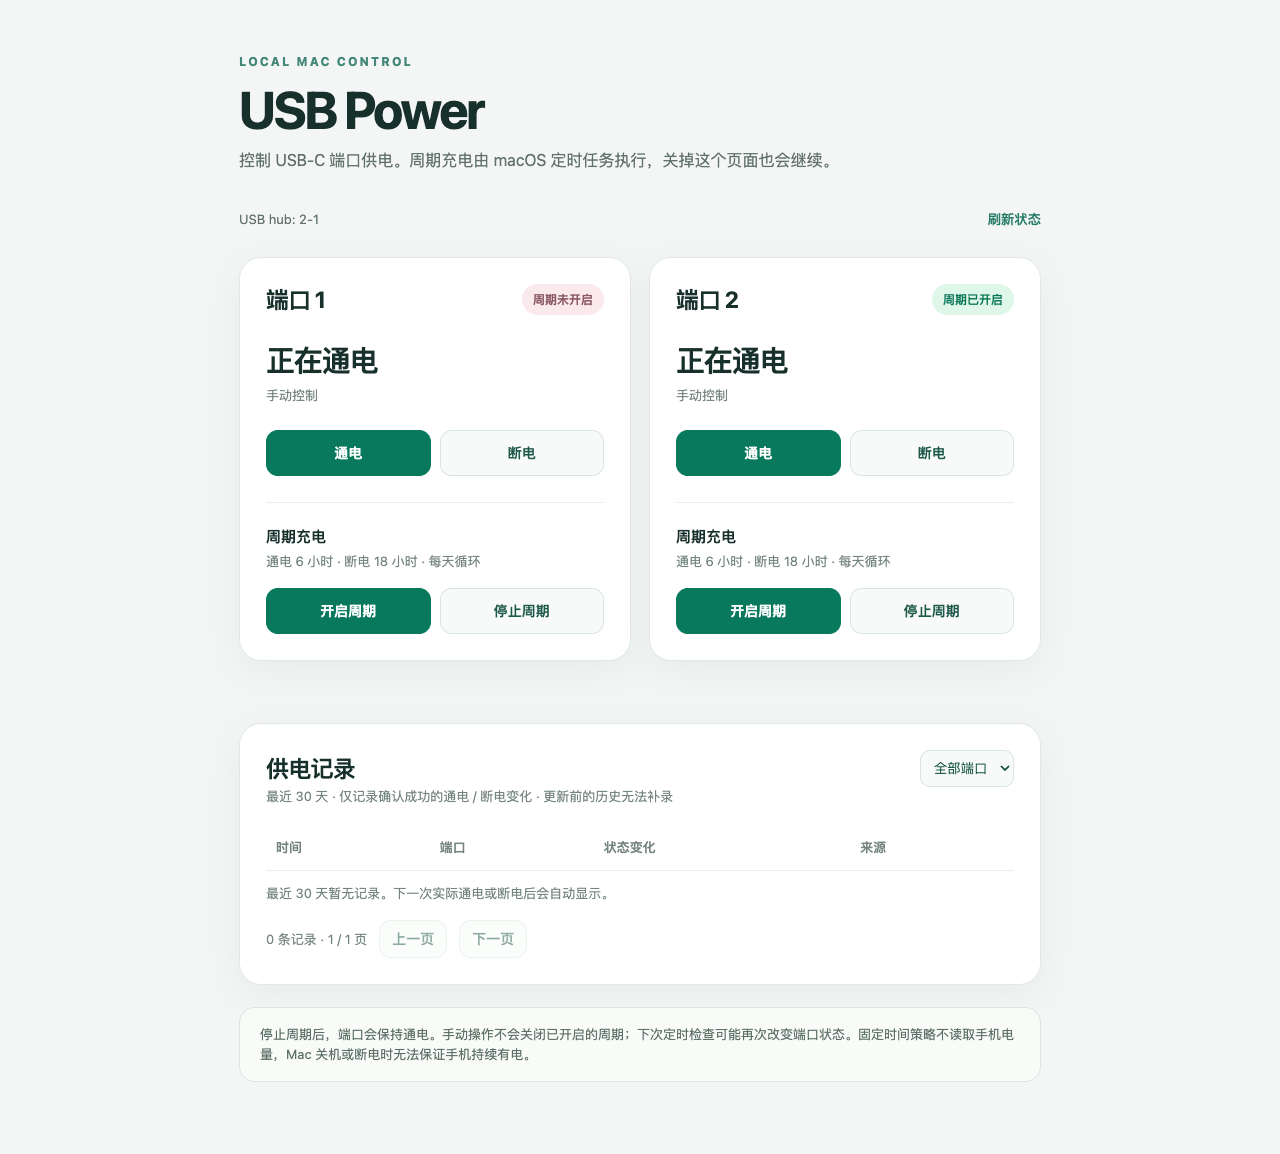
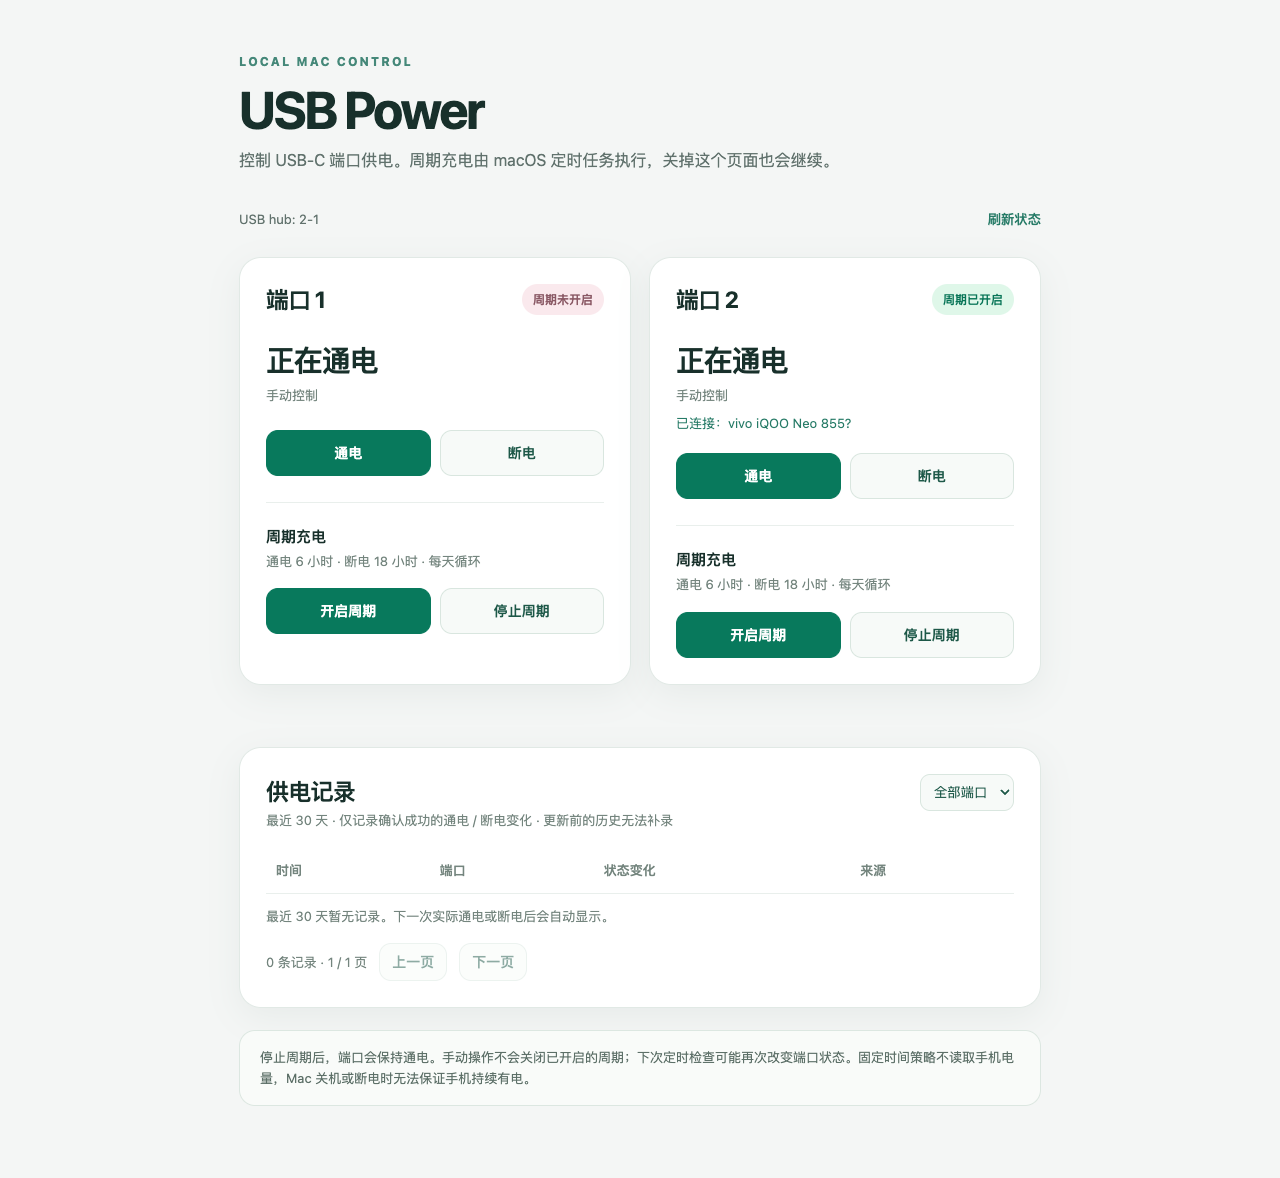
feat: show detected USB devices on port cards

diff --git a/index.html b/index.html
@@ -23,6 +23,7 @@
     .badge.off { color: #8a5965; background: #fae9ed; }
     .state { margin: 24px 0 5px; font-size: 29px; font-weight: 800; letter-spacing: -.04em; }
     .hint { color: #74857e; font-size: 13px; margin: 0 0 26px; }
+    .device { color: #277b67; font-size: 13px; line-height: 1.5; margin: -16px 0 20px; overflow-wrap: anywhere; }
     .row { display: flex; gap: 9px; }
     button.action { flex: 1; border: 1px solid #d9e6df; border-radius: 12px; background: #f7faf8; color: #1d5848; padding: 12px 8px; font-size: 14px; font-weight: 700; cursor: pointer; }
     button.action.primary { background: #08795c; color: white; border-color: #08795c; }
@@ -54,14 +55,14 @@
     <div class="grid">
       <section class="card" data-port="1">
         <div class="card-header"><h2>端口 1</h2><span class="badge">读取中</span></div>
-        <div class="state">—</div><p class="hint">手动控制</p>
+        <div class="state">—</div><p class="hint">手动控制</p><p class="device" hidden></p>
         <div class="row"><button class="action primary" data-mode="power" data-action="on">通电</button><button class="action" data-mode="power" data-action="off">断电</button></div>
         <div class="divider"></div><p class="cycle-title">周期充电</p><p class="cycle-detail">通电 6 小时 · 断电 18 小时 · 每天循环</p>
         <div class="row"><button class="action primary" data-mode="cycle" data-action="on">开启周期</button><button class="action" data-mode="cycle" data-action="off">停止周期</button></div>
       </section>
       <section class="card" data-port="2">
         <div class="card-header"><h2>端口 2</h2><span class="badge">读取中</span></div>
-        <div class="state">—</div><p class="hint">手动控制</p>
+        <div class="state">—</div><p class="hint">手动控制</p><p class="device" hidden></p>
         <div class="row"><button class="action primary" data-mode="power" data-action="on">通电</button><button class="action" data-mode="power" data-action="off">断电</button></div>
         <div class="divider"></div><p class="cycle-title">周期充电</p><p class="cycle-detail">通电 6 小时 · 断电 18 小时 · 每天循环</p>
         <div class="row"><button class="action primary" data-mode="cycle" data-action="on">开启周期</button><button class="action" data-mode="cycle" data-action="off">停止周期</button></div>
@@ -119,6 +120,9 @@
         badge.className = `badge ${item.cycle === 'enabled' ? 'on' : 'off'}`;
         card.querySelector('.state').textContent = item.power === 'on' ? '正在通电' : item.power === 'off' ? '已断电' : '状态未知';
         card.querySelector('.hint').textContent = item.error || '手动控制';
+        const device = card.querySelector('.device');
+        device.hidden = !item.device;
+        device.textContent = item.device ? `已连接：${item.device}` : '';
       }
     }
     async function refresh() {

diff --git a/web.py b/web.py
@@ -4,6 +4,7 @@
 import argparse
 import json
 import os
+import re
 import secrets
 import subprocess
 import threading
@@ -53,7 +54,24 @@ def read_history() -> dict:
     return {"records": records, "error": ""}
 
 
+def parse_devices(output: str) -> dict:
+    devices = {}
+    for line in output.splitlines():
+        match = re.match(r"\s*Port ([12]):\s+(.+)", line)
+        if not match or not re.search(r"\bconnect\b", match[2]):
+            continue
+        descriptor = re.search(r"\[[0-9a-fA-F]{4}:[0-9a-fA-F]{4}(?:\s+([^\]]+))?\]", match[2])
+        name = descriptor[1].strip() if descriptor and descriptor[1] else ""
+        # Do not show a trailing hexadecimal USB serial number in the UI.
+        name = re.sub(r"\s+[0-9a-fA-F]{8,}$", "", name)
+        if name or match[1] not in devices:
+            devices[match[1]] = name or "未知设备"
+    return devices
+
+
 def snapshot() -> dict:
+    devices_ok, device_output = run_cli("devices")
+    devices = parse_devices(device_output) if devices_ok else {}
     ports = {}
     for port in ("1", "2"):
         ok, power = run_cli("status", port)
@@ -61,6 +79,7 @@ def snapshot() -> dict:
         ports[port] = {
             "power": power.rsplit(" ", 1)[-1] if ok else "unknown",
             "cycle": "enabled" if cycle_ok and "cycle enabled" in cycle else "disabled",
+            "device": devices.get(port),
             "error": "" if ok and cycle_ok else power or cycle,
         }
     _, hub = run_cli("hub")

diff --git a/tests/test_web.py b/tests/test_web.py
@@ -16,6 +16,17 @@ spec.loader.exec_module(web)
 
 
 class WebTests(unittest.TestCase):
+    def test_devices_and_companion_ports(self):
+        output = """Port 1: 0100 power
+Port 2: 0503 power highspeed enable connect [05c6:9025 vivo iQOO Neo 855? 7293aad4]
+Port 1: 02a0 power 5gbps Rx.Detect
+Port 2: 00a0 off
+"""
+        self.assertEqual(web.parse_devices(output), {"2": "vivo iQOO Neo 855?"})
+        self.assertEqual(web.parse_devices("Port 1: 0103 power enable connect"), {"1": "未知设备"})
+        self.assertEqual(web.parse_devices("Port 1: 0103 power enable connect [1234:5678]"), {"1": "未知设备"})
+        self.assertEqual(web.parse_devices("Port 1: 0100 power"), {})
+
     def test_history_window_and_malformed_rows(self):
         with tempfile.TemporaryDirectory() as directory:
             home = Path(directory)
@@ -65,6 +76,8 @@ class WebTests(unittest.TestCase):
 
     def test_valid_change_uses_cli_arguments(self):
         def fake_run(*args):
+            if args == ("devices",):
+                return True, "Port 2: 0103 power enable connect [1234:5678 Test phone]"
             if args == ("cycle", "on", "2"):
                 return True, "Port 2: cycle enabled"
             if args[0] == "hub":

diff --git a/tests/test_cli.py b/tests/test_cli.py
@@ -50,6 +50,7 @@ fi
         return subprocess.run([str(SCRIPT), *args], env=self.env, text=True, capture_output=True, check=True).stdout
 
     def test_default_port_and_hub(self):
+        self.assertIn("Port 1: 0000 off", self.run_cli("devices"))
         self.assertIn("Port 1: off -> on", self.run_cli("on"))
         self.assertIn("Port 1: already on", self.run_cli("on"))
         history = self.home / "Library/Application Support/usb-power/power-history.tsv"

diff --git a/README.md b/README.md
@@ -37,6 +37,8 @@ The installer links `usb-power` into `~/.local/bin`. Keep the cloned directory i
 
 ## Use
 
+The control panel displays detected USB device names on their port cards. A connected device without a reported name appears as "未知设备" (unknown device); no device label is shown when nothing is detected. Detection also checks the hub's USB3 companion ports. Charge-only devices and devices on powered-off ports may not be detectable.
+
 ```bash
 usb-power                # help
 usb-power hub            # current hub location; defaults to 2-1
